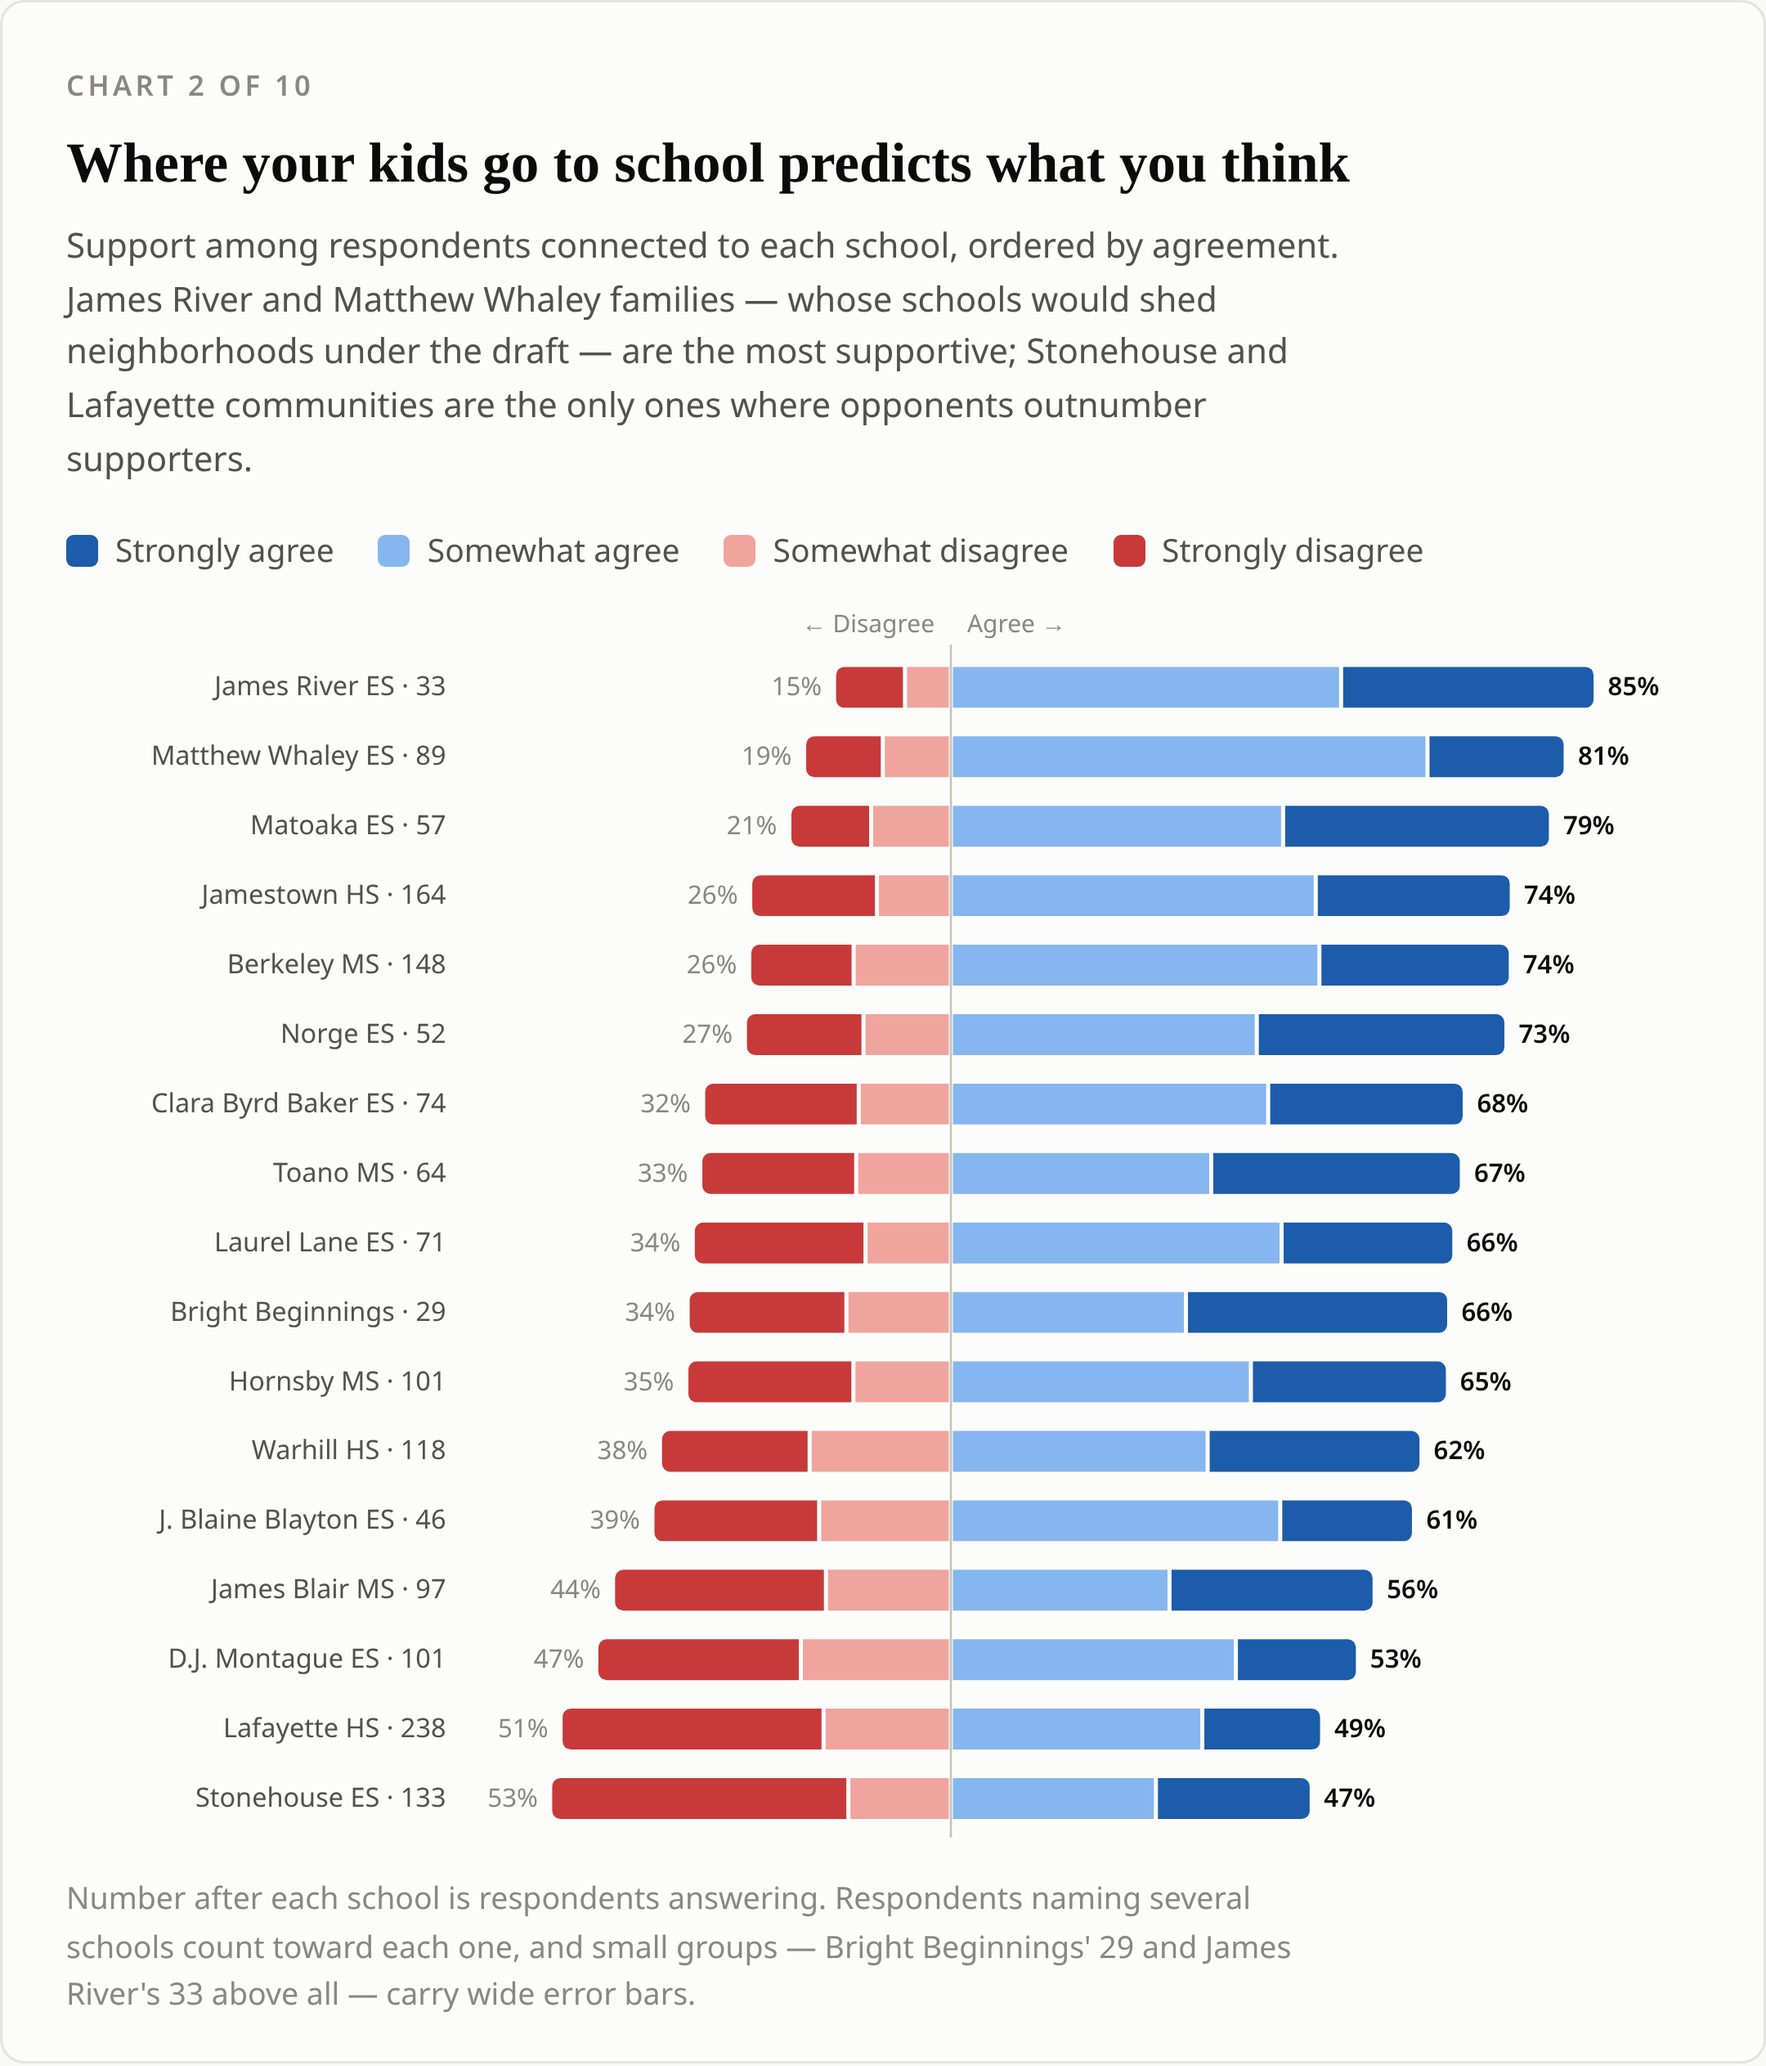
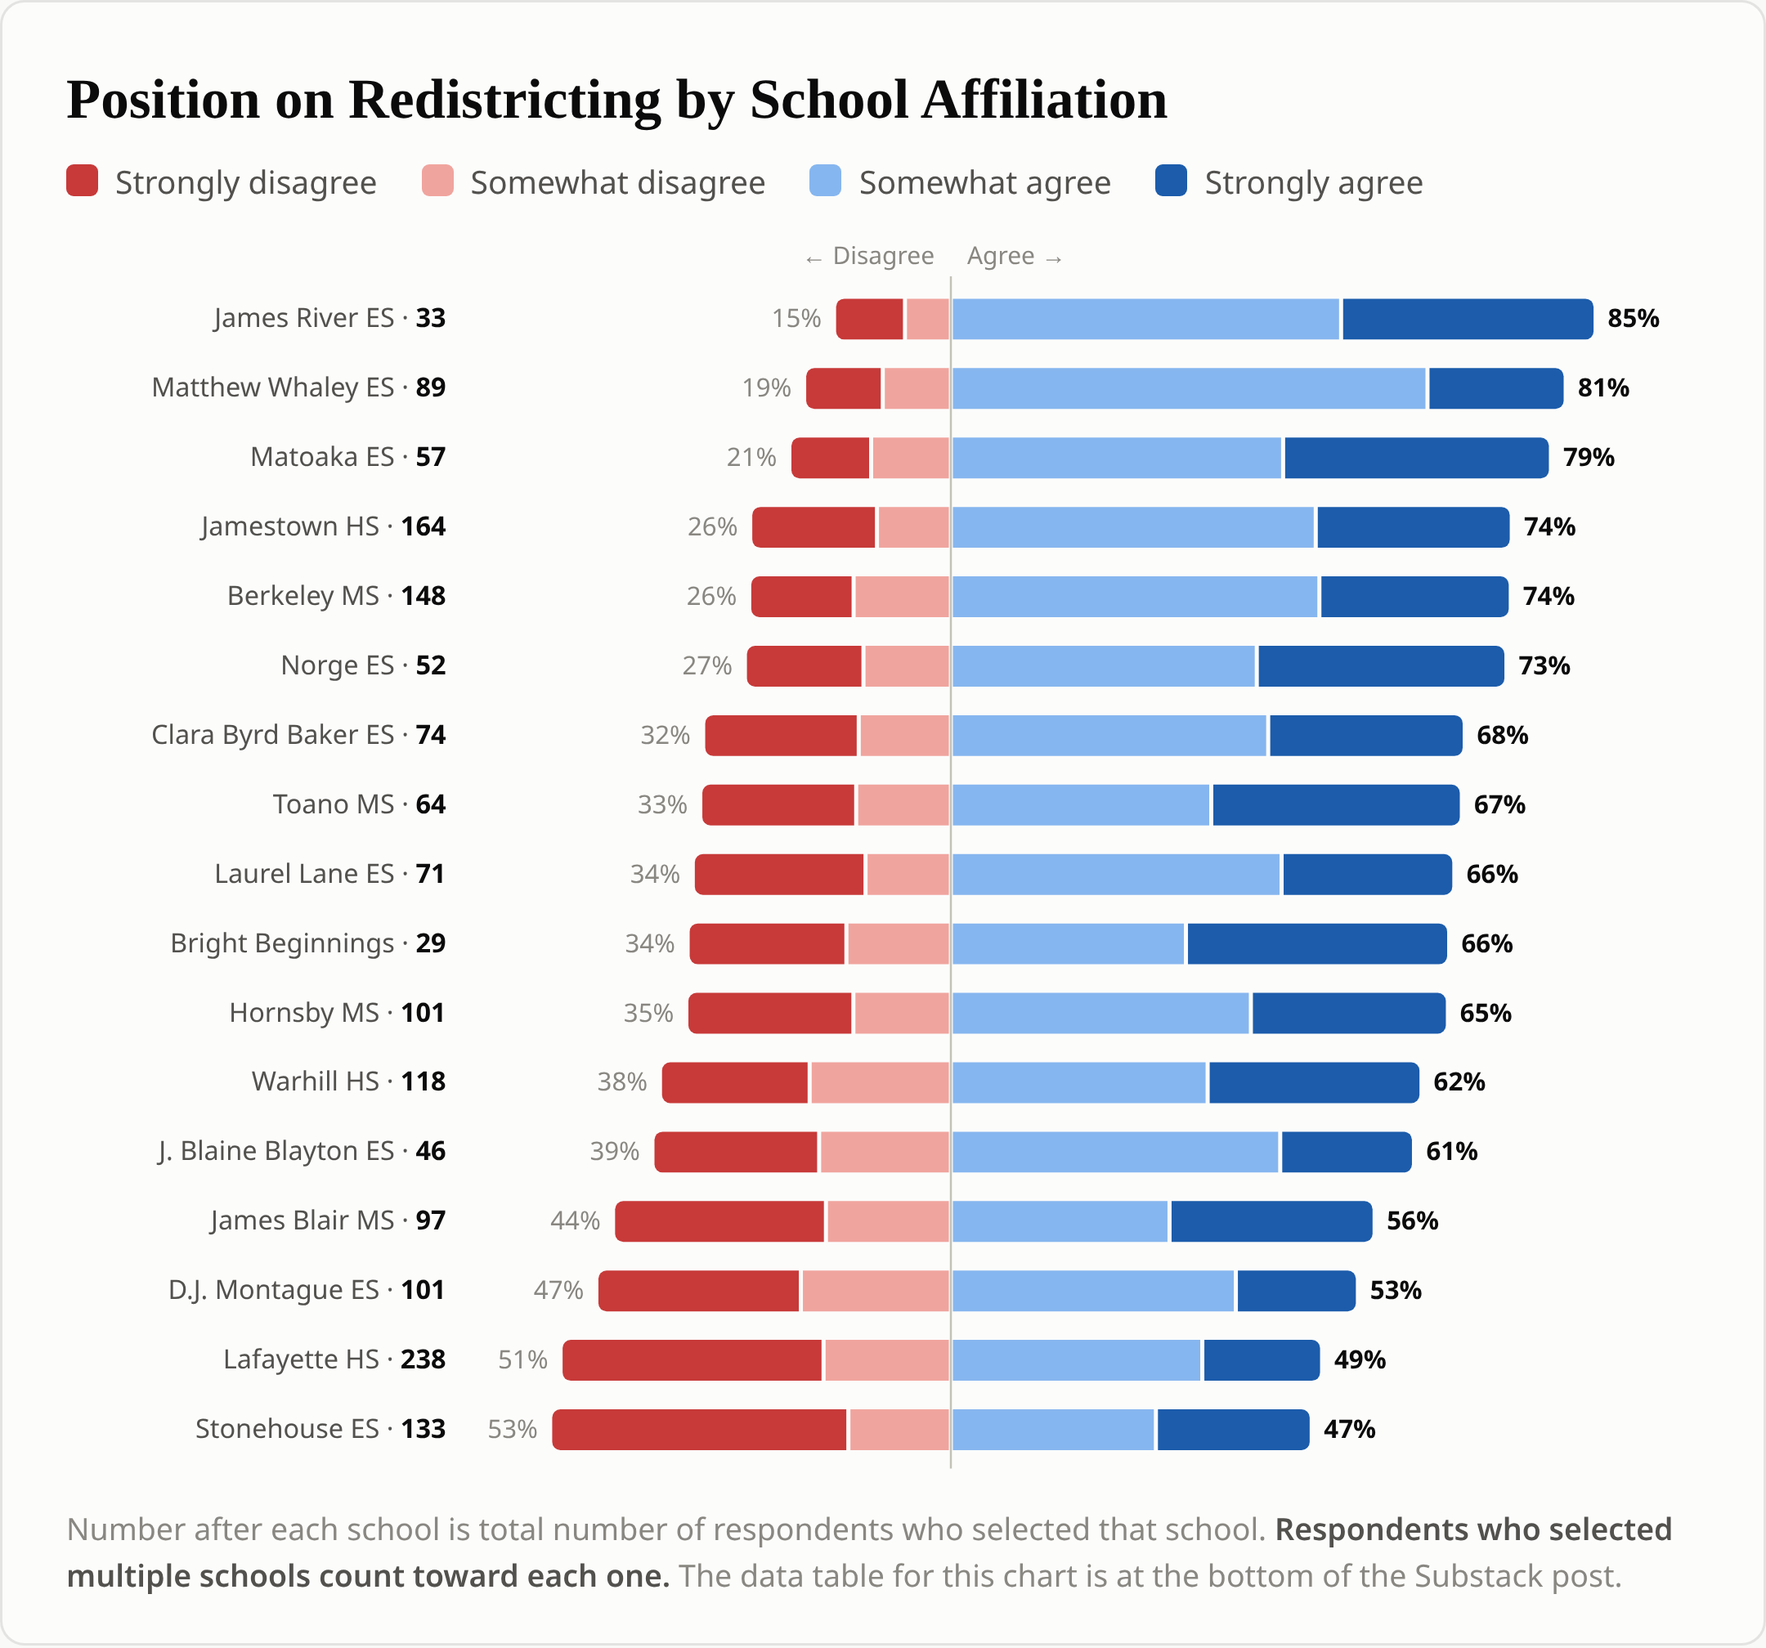
wip: session 2026-09-02T05:52:39-04:00
Auto-snapshot by SessionEnd hook (reason: prompt_input_exit). Tracked files only;
untracked files were left alone. Undo with: git reset --soft HEAD~1

Changed region(s): [[0.031, 0.0312, 0.9306, 0.875], [0.0931, 0.3125, 0.2481, 0.875], [0.031, 0.9062, 0.9616, 0.9688]]

diff --git a/site/charts.html b/site/charts.html
@@ -849,8 +849,8 @@
   (function () {
     var c = card(6,
       "“Which priorities do you consider most important in the development of new school boundaries?”",
-      "A multiple-choice question with eight options and up to two picks. The form did not enforce " +
-      "that cap: 18 respondents recorded three or four picks (11 with three, 7 with four).");
+      "A multiple-choice question with eight options and up to two selections. The form did not enforce " +
+      "that cap: 18 respondents recorded three or four selections (11 with three, 7 with four).");
     hbars(c, priorities, {
       gutter: 240, base: 1466, tipLabel: "chose this priority",
       aria: "Bar chart of boundary priorities chosen by respondents."

diff --git a/DEVLOG.md b/DEVLOG.md
@@ -3,6 +3,32 @@
 Residue only — what was tried and abandoned, why a road was taken, what is still open.
 The diff is in `git log`; the numbers are in the scripts.
 
+## 2026-09-02 — Per-chart PNGs + iframe embeds (charts 2, 5, 6)
+
+Closes the DEVLOG open item "the goal is per-chart PNGs rather than a page."
+`build_chart_embeds.py` slices `charts.html` into single-chart documents: a
+one-line patch to `card()` (`ONLY_CHART` guard on the sole `getElementById("cards")`
+append) makes the shared script render just the wanted card while the other nine
+builders run harmlessly into detached sections — cheaper than forking the script.
+
+Two outputs per chart. The `site/embeds/*.html` keep the `<details>` table and stay
+responsive (for `<iframe>` on jwcaterine.com — Substack accepts no HTML/JS/iframe,
+which is the whole reason for the split). The `site/substack/*.png` hide the table
+and are shot at a 760 px viewport / 3× → 2160 px wide, matching the older charts 1
+and 7 shots already in the post. Chart 6's note ended "...in the table below.",
+which dangles once the table is gone, so for the PNG that clause is rewritten to be
+the pointer ("...in the data table at the bottom of the Substack post") rather than
+having a second sentence bolted on; charts 2 and 5 notes carry no table reference
+so they just get the sentence appended.
+
+Chart 6 intro text: "two picks" → "two selections", "four picks" → "four
+selections", in `charts.html` itself. The note's "most respondents picked two" was
+deliberately left alone — the ask was the intro.
+
+Open: the embeds inline unqualified selectors (`h2`, `svg text`, `.wrap`…). Fine
+inside an iframe; if they ever get inlined into Astro they need re-anchoring under a
+wrapper class, same bite as MIGRATION.md step 4 for the explorer.
+
 ## 2026-08-31 — Chart 5 rebuilt on overlapping categories; chart 6 labels made verbatim
 
 Chart 5 previously assigned each respondent to exactly one bucket via a priority

diff --git a/site/README.md b/site/README.md
@@ -72,7 +72,8 @@ each — so the explorer publishes comment text verbatim including those names.
 | `comments.json` | Explorer payload. Vocab-indexed to keep it small. |
 | `comments.csv` | Flat one-row-per-respondent download offered in the explorer. |
 | `MIGRATION.md` | Step-by-step plan for moving the explorer into the Astro site. |
-| `substack/*.png` | Charts 1, 2 and 7 as static images, 720 CSS px wide at 3× (2160 px). |
+| `substack/*.png` | Featured charts (1, 2, 5, 6, 7) as static images, 720 CSS px wide at 3× (2160 px). Charts 2, 5, 6 are generated by `build_chart_embeds.py`; 1 and 7 are older hand-made shots. |
+| `embeds/chartN-slug.html` | Standalone, responsive single-chart pages that keep the collapsible `<details>` table — meant to be `<iframe>`d on jwcaterine.com (Substack takes no HTML). Generated by `build_chart_embeds.py`. |
 
 ### `comments.json` row schema
 
@@ -102,8 +103,13 @@ goes stale.
 
 Substack strips JavaScript, so featured charts ship as PNGs from `substack/`.
 
-Regenerate them by rendering `charts.html` in a headless browser at a **760 px
-viewport** and screenshotting each `<section>`. The width matters: `.scroller svg`
+Charts 2, 5 and 6: run `python3 build_chart_embeds.py` from the repo root (needs
+`playwright` + its chromium). It writes both the `<iframe>` embeds and the PNGs,
+dropping the data table from the PNG and extending the footnote to point at the
+table printed below the Substack post.
+
+Charts 1 and 7 are still hand-made: render `charts.html` in a headless browser at a
+**760 px viewport** and screenshot each `<section>`. The width matters: `.scroller svg`
 carries `min-width: 640px`, so below a ~760 px viewport the card's inner width drops
 under 640 and the chart moves into a horizontal scroller — correct on a live page,
 but an element screenshot then silently crops the right-hand value labels. At 760 px
